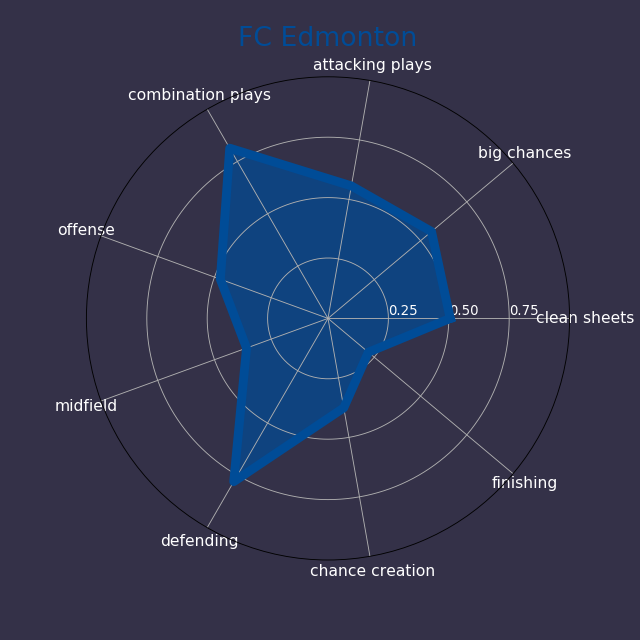
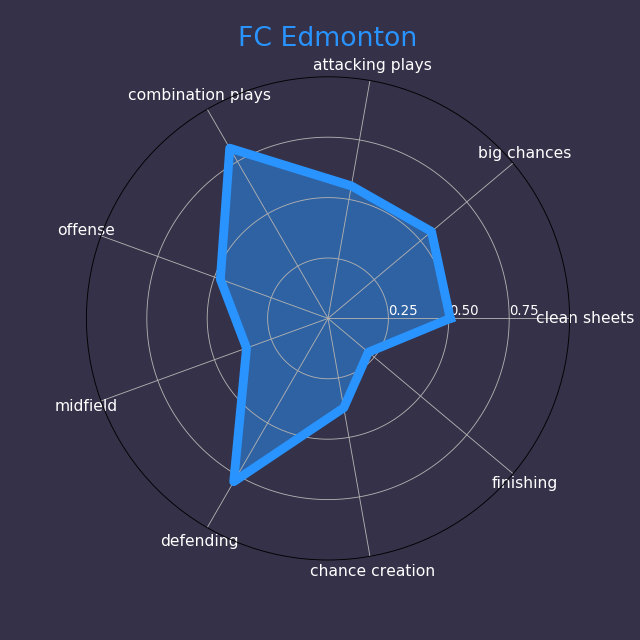
dark radar graphs added

Changed region(s): [[0.3125, 0.2188, 0.7188, 0.7812], [0.4375, 0.0312, 0.6562, 0.0938], [0.375, 0.0312, 0.4062, 0.0625]]

diff --git a/templates/cpl-es-radar.html b/templates/cpl-es-radar.html
@@ -2,14 +2,14 @@
 {% block content %}
 
 <!-- Sidebar/menu -->
-<nav class="w3-sidebar w3-collapse w3-white w3-animate-left" style="z-index:3;width:300px;" id="mySidebar"><br>
+<nav class="w3-sidebar w3-collapse cpl-eclipse-l w3-animate-left" style="z-index:3;width:300px;" id="mySidebar"><br>
   <div class="w3-container w3-row">
     <div class="w3-col s4">
-      <img src="static/images/flags/cpl_logo.png" class="w3-circle w3-margin-right" style="width:46px">
+      <img src="static/images/flags/CPL-Crest-White.png" class="w3-circle w3-margin-right" style="width:46px">
     </div>
     <div class="w3-dropdown-hover">
-      <button class="w3-button w3-white w3-xlarge">{{ year }} Season</button>
-      <div class="w3-dropdown-content w3-bar-block w3-card-4">
+      <button class="w3-button w3-xlarge">{{ year }} Season</button>
+      <div class="w3-dropdown-content w3-indigo w3-bar-block w3-card-4">
         <a class="w3-button w3-center" href="{{ url_for('index_19') }}">{{ other_year }}</a><br>
       </div>
     </div>
